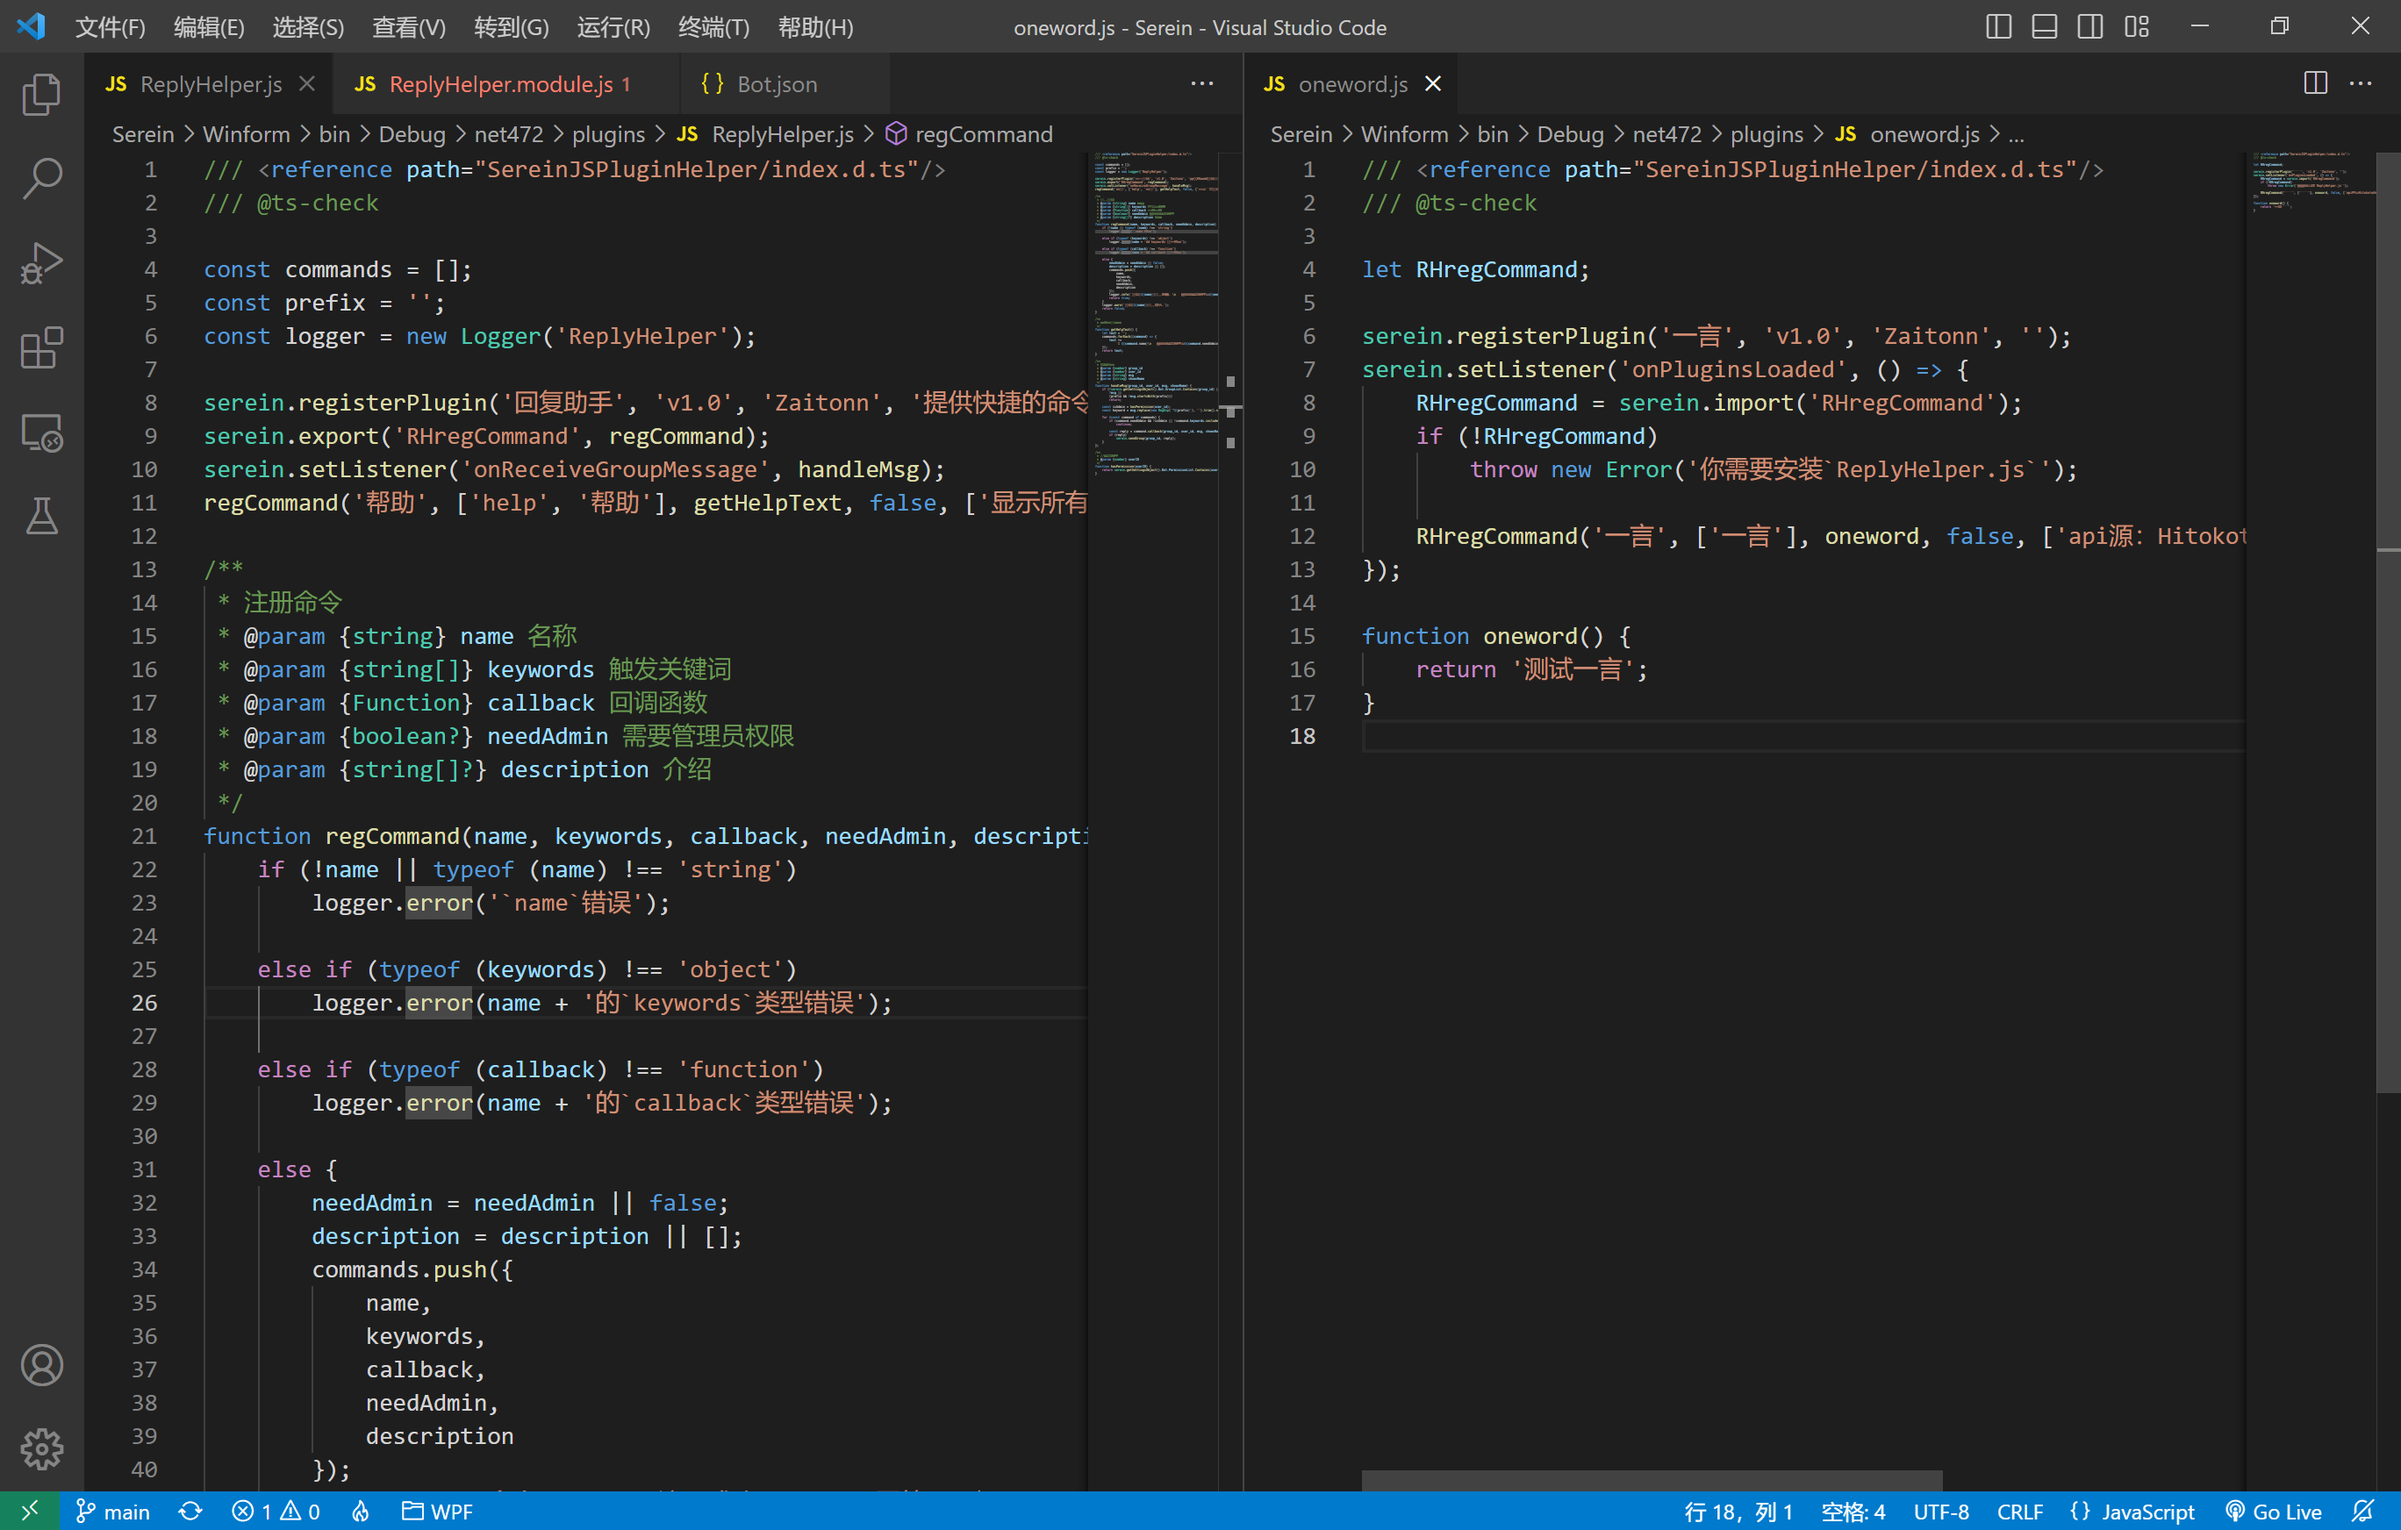
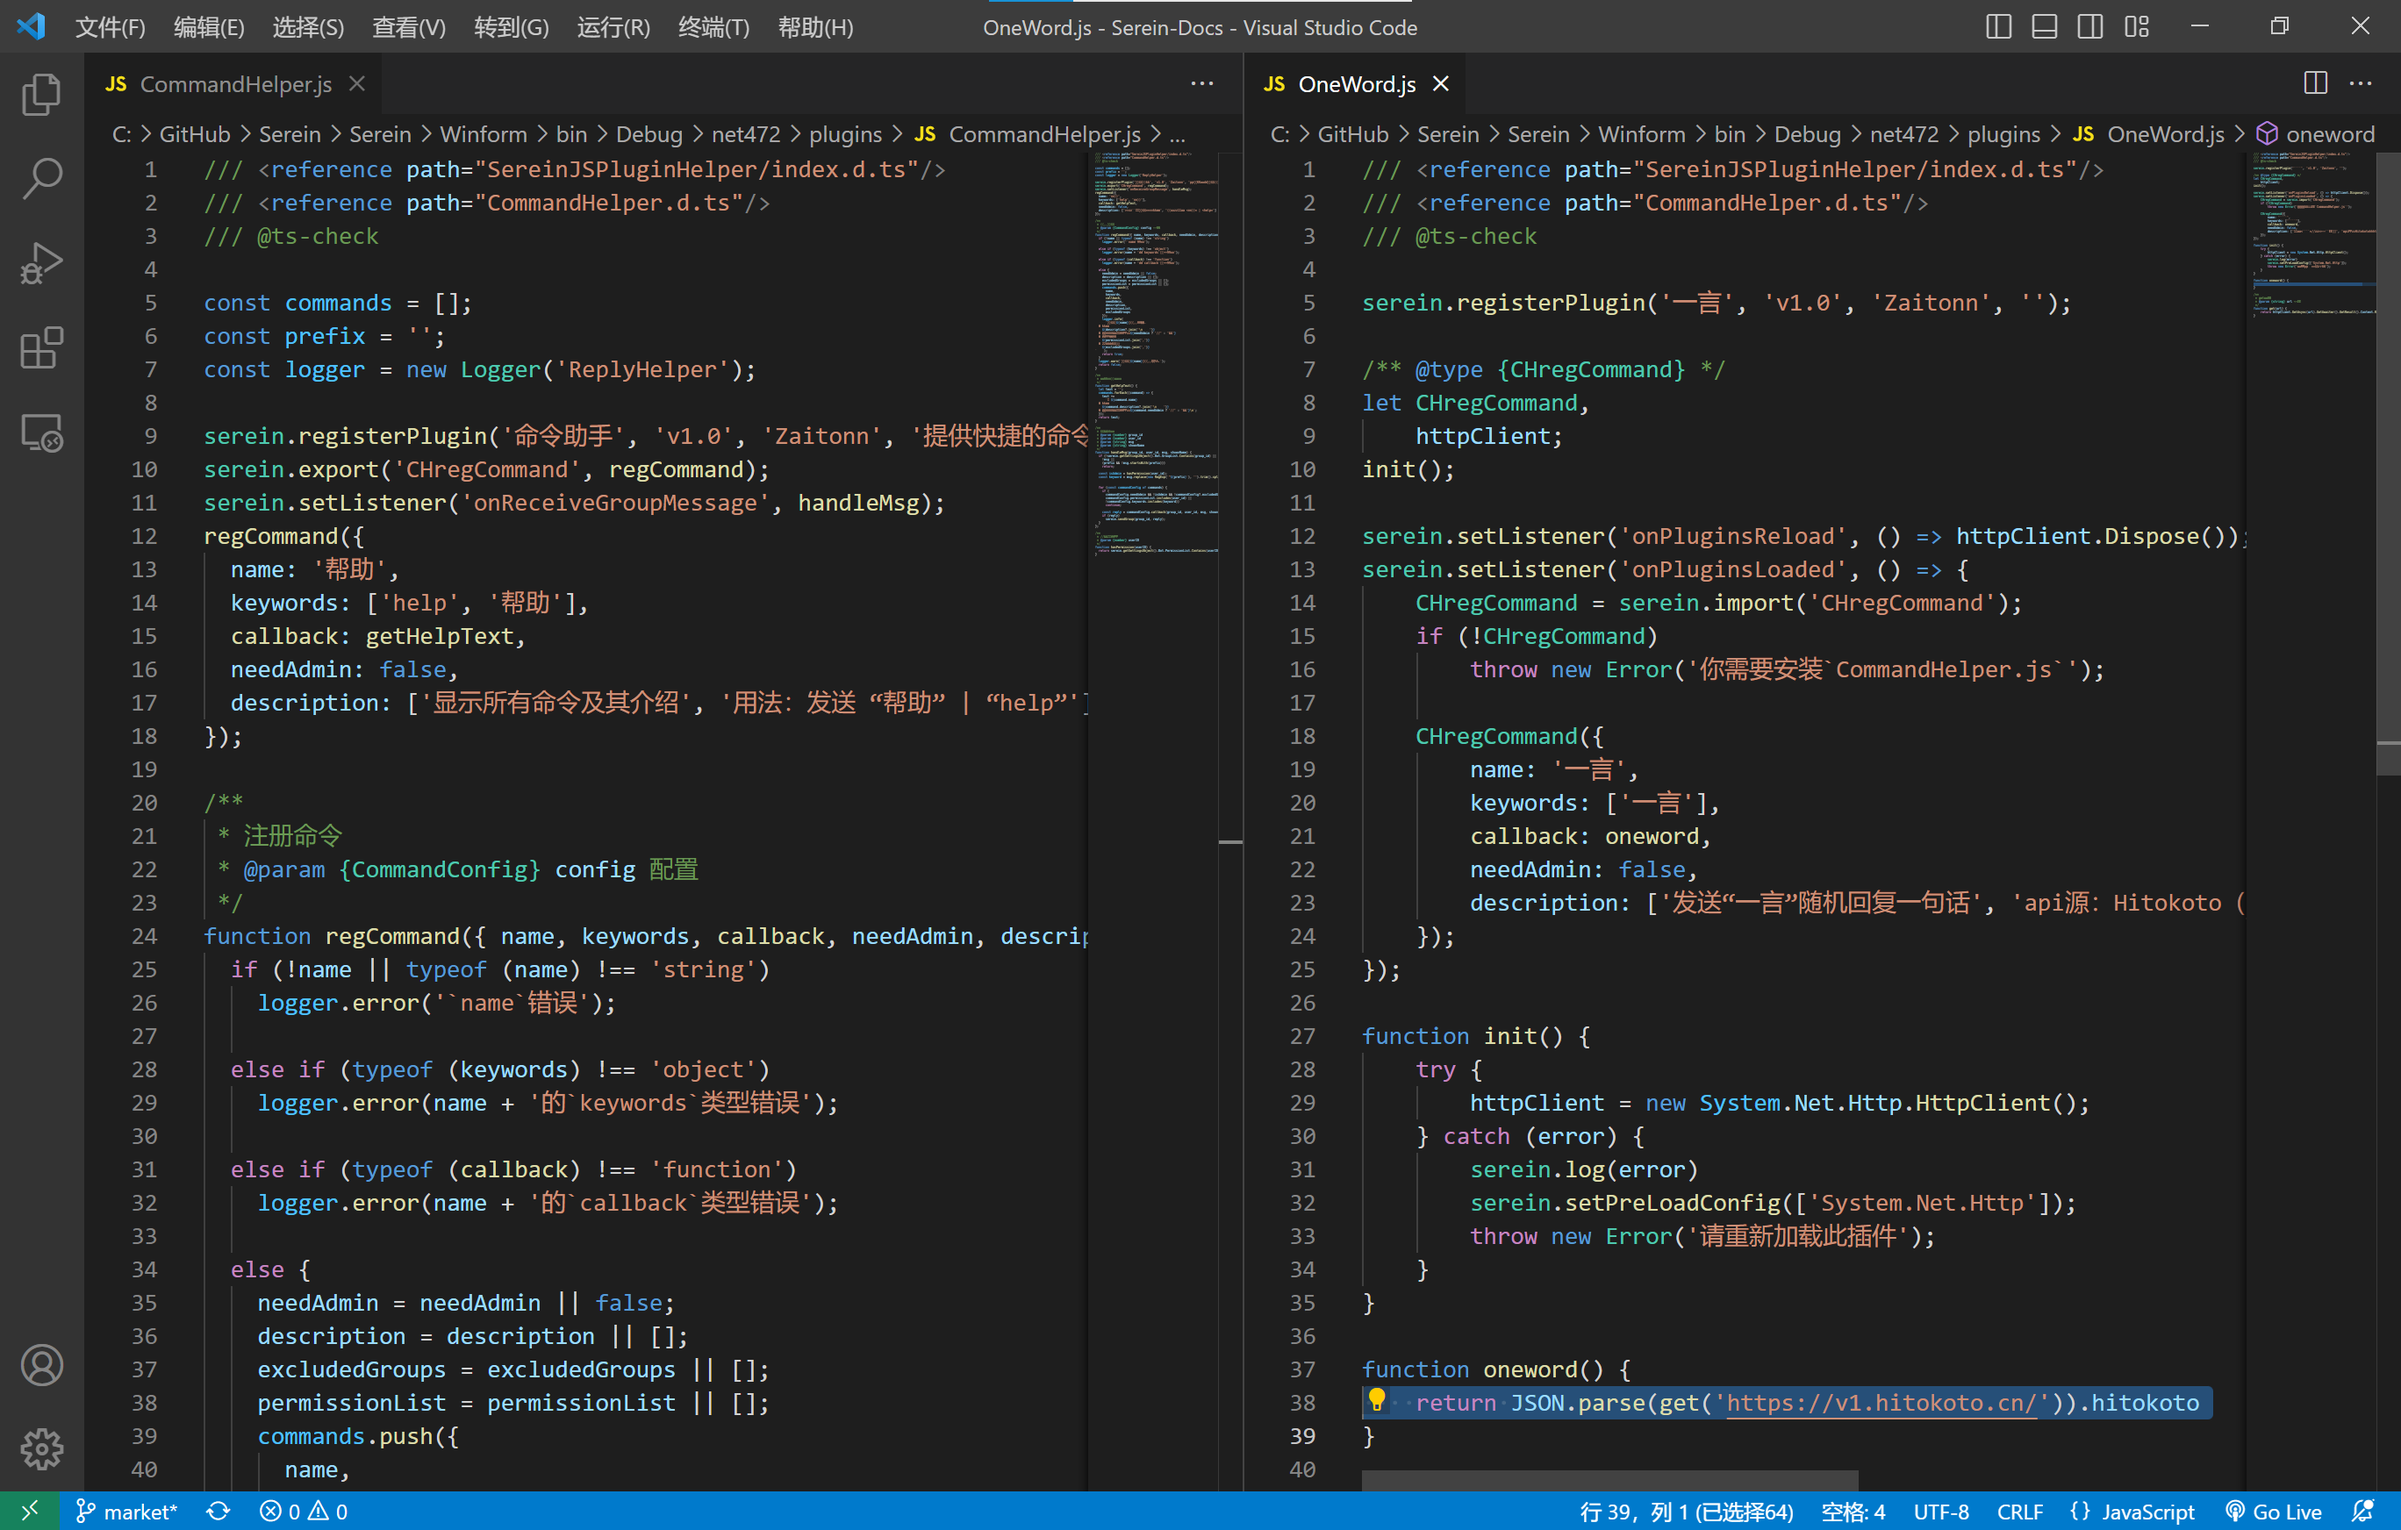
feat: 更新插件

diff --git a/resources/CommandHelper.md b/resources/CommandHelper.md
@@ -4,7 +4,7 @@ slug: CommandHelper
 authors: 
   - Zaitonn
 tags: [JS,前置]
-date: 2023.4.16
+date: 2023.4.17
 ---
 
 ![控制台](/img/CommandHelper/1.png)
@@ -35,23 +35,26 @@ date: 2023.4.16
 
 ## 开发
 
-1. 下载[模板文件](#历史版本)后放到`plugins`文件夹下
+1. 下载[模板和自动补全](#历史版本)两个文件后放到`plugins`文件夹下
 2. 打开编辑`function callback()`和命令介绍
 3. 重新加载插件
 
-```js {7-11,17}
+```js {10-15,20}
+/// <reference path="CommandHelper.d.ts"/>
+
 serein.setListener('onPluginsLoaded', () => {
+    /** @type {CHregCommand} */
     const CHregCommand = serein.import('CHregCommand');
     if (!CHregCommand)
         throw new Error('你需要安装`CommandHelper.js`');
 
-    CHregCommand(
-        '你好世界',     // 命令名称
-        ['test'],       // 触发关键词
-        callback,       // 回调函数
-        false,          // 是否需要管理权限
-        ['一个模板']    // 以string[]储存，一行一条
-    );
+    CHregCommand({
+        name: '你好世界',     // 命令名称
+        keywords: ['test'],       // 触发关键词
+        callback: callback,       // 回调函数
+        needAdmin: false,          // 是否需要管理权限
+        description: ['一个模板']    // 以string[]储存，一行一条
+    });
 });
 
 // 参数同 https://serein.cc/docs/development/function/serein#onreceivegroupmessage
@@ -66,5 +69,6 @@ function callback (group_id, user_id, msg, shownName) {
 
 ## 历史版本
 
-- 2023.4.16 [v1.0](https://download.serein.cc/https://raw.githubusercontent.com/Zaitonn/Serein-Docs/publish/JS/CommandHelper/v1.0/CommandHelper.js)
+- 2023.4.17 [v1.0](https://download.serein.cc/https://raw.githubusercontent.com/Zaitonn/Serein-Docs/publish/JS/CommandHelper/v1.0/CommandHelper.js)
   - [模板](https://download.serein.cc/https://raw.githubusercontent.com/Zaitonn/Serein-Docs/publish/JS/CommandHelper/v1.0/template.js)
+  - [自动补全](https://download.serein.cc/https://raw.githubusercontent.com/Zaitonn/Serein-Docs/publish/JS/CommandHelper/v1.0/CommandHelper.d.ts)

diff --git a/resources/OneWord.md b/resources/OneWord.md
@@ -4,7 +4,7 @@ slug: OneWord
 authors: 
   - Zaitonn
 tags: [JS,工具]
-date: 2023.4.16
+date: 2023.4.17
 ---
 
 ![控制台](/img/OneWord/console.png)
@@ -29,4 +29,4 @@ date: 2023.4.16
 
 ## 历史版本
 
-- 2023.4.16 [v1.0](https://download.serein.cc/https://raw.githubusercontent.com/Zaitonn/Serein-Docs/publish/JS/OneWord/v1.0/OneWord.js)
+- 2023.4.17 [v1.0](https://download.serein.cc/https://raw.githubusercontent.com/Zaitonn/Serein-Docs/publish/JS/OneWord/v1.0/OneWord.js)
